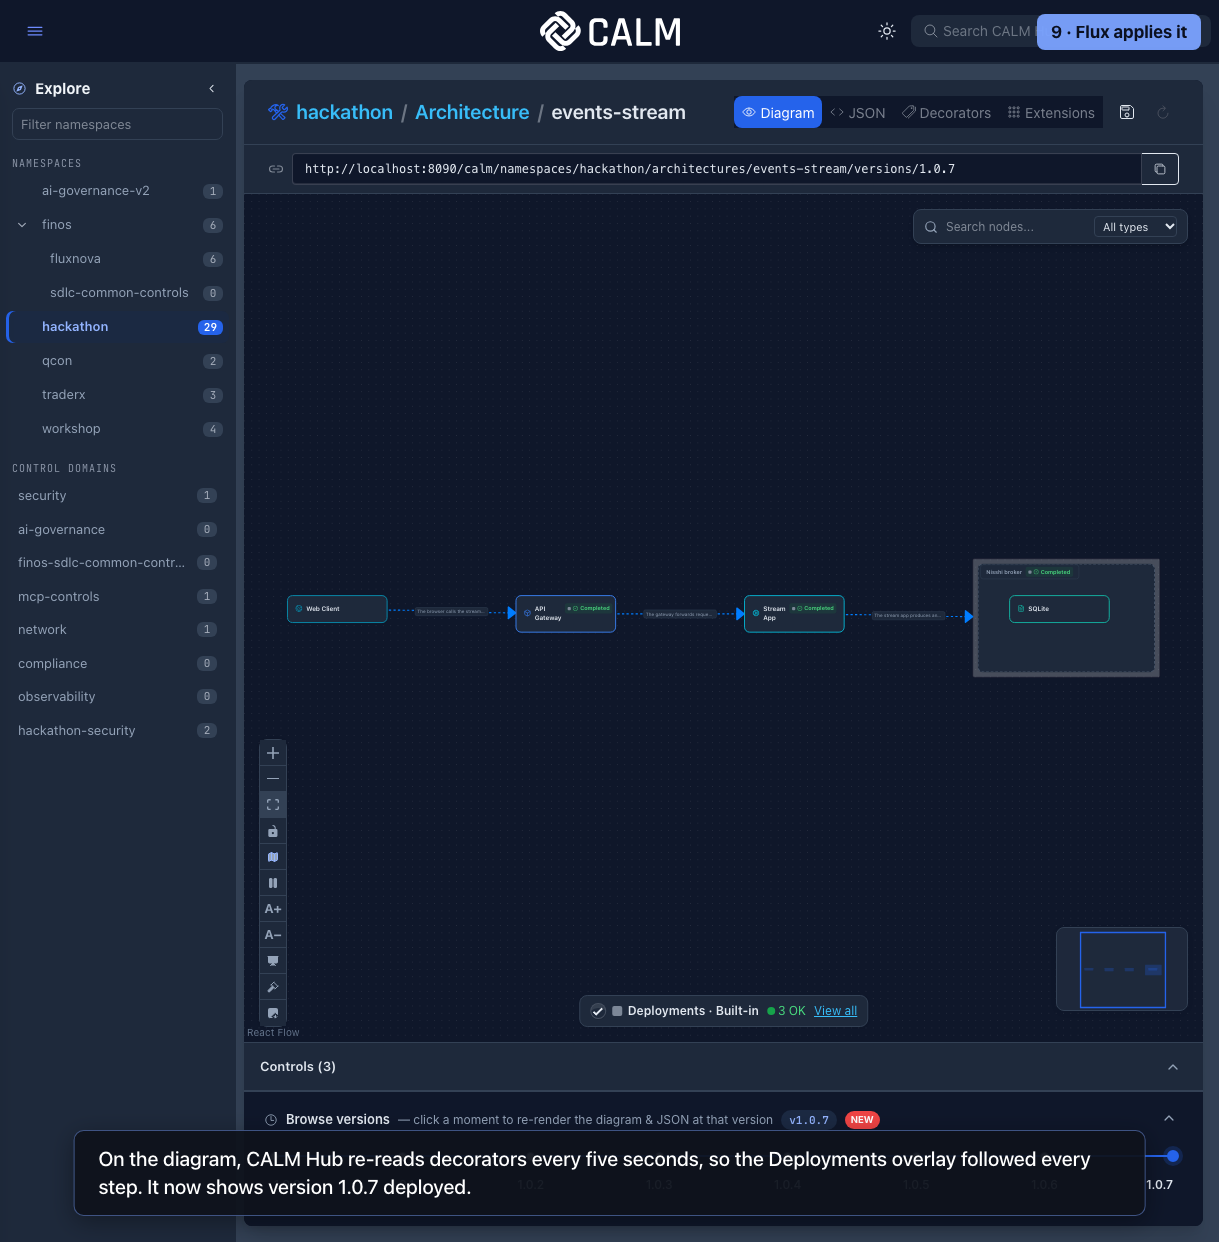
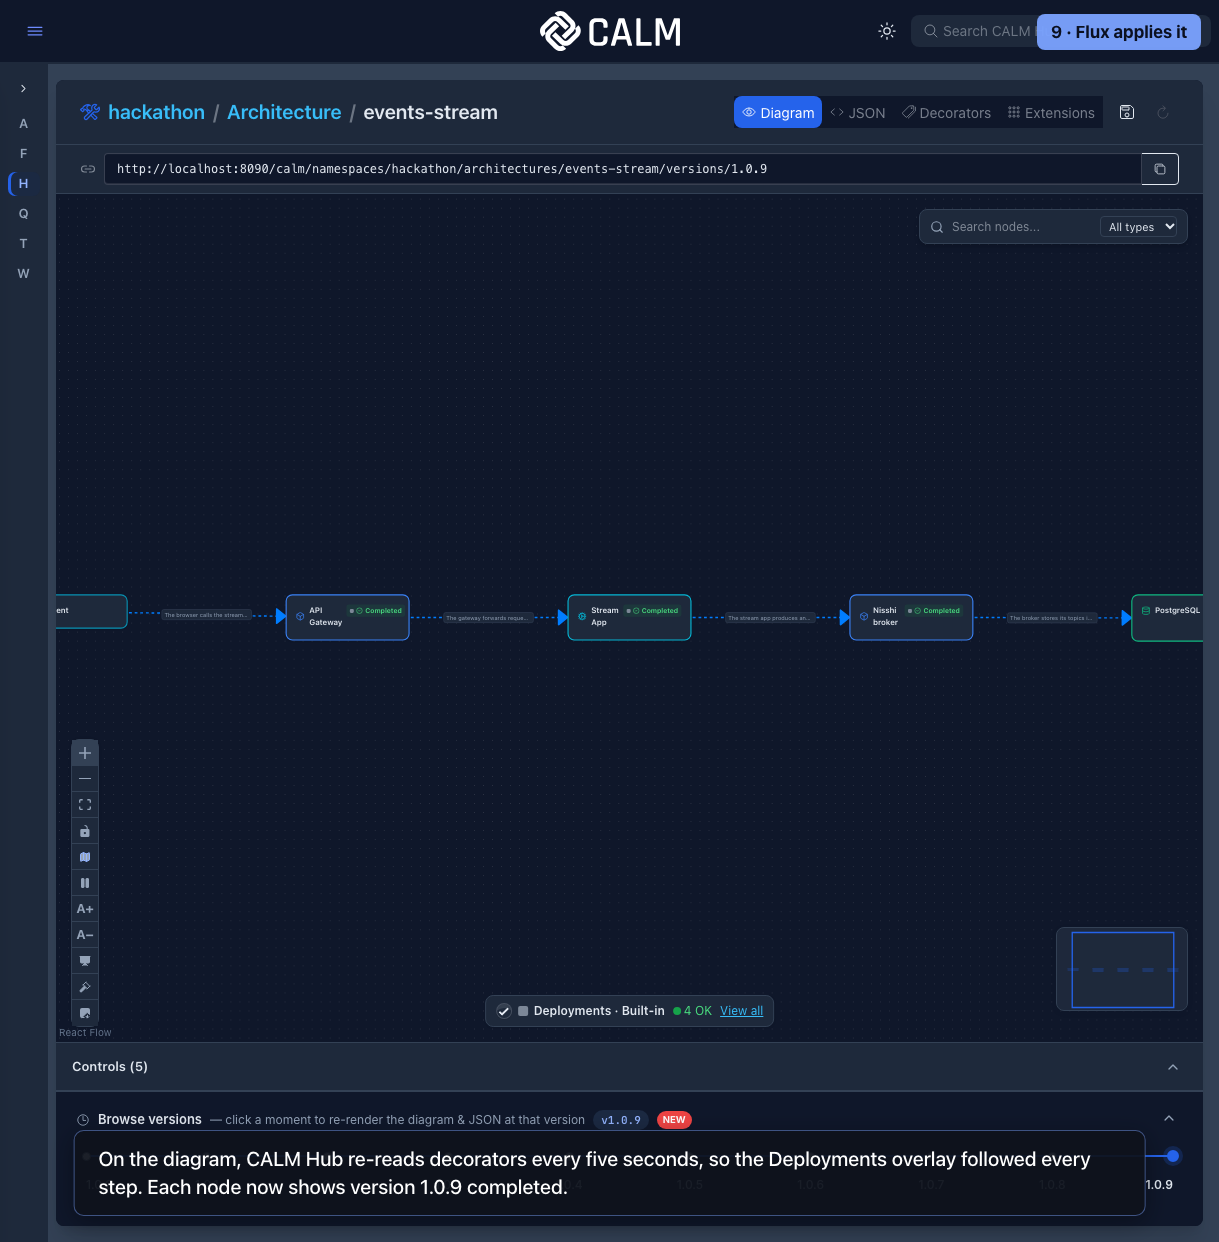
docs(hub-extension): the demo's CALM Hub pane follows the deployment
While the deployment runs, CALM Hub shows its record on the Decorators tab (re-read at each step), then the diagram
close enough to read each node's status; the pull request is shown in Gitea (conversation, files, commit, merged);
the sidebar stays collapsed after reloads. Narration and chapter times updated for the new take, voiced with the
presenter's ElevenLabs voice.

Claude-Session: https://claude.ai/code/session_0187vGcs6AUfHZD2JusozwLv

diff --git a/calm-hub-deploy-extension/docs/demo/README.md b/calm-hub-deploy-extension/docs/demo/README.md
@@ -1,6 +1,6 @@
 # Demo: plugging a deployment extension into CALM Hub
 
-A narrated walkthrough (12:58, 1920×1080, one take) with a terminal on the local cluster on the left and CALM Hub on
+A narrated walkthrough (12:35, 1920×1080, one take, in the presenter's cloned voice) with a terminal on the local cluster on the left and CALM Hub on
 the right. It starts with CALM Hub as it ships, with no extensions, and shows how an integration plugs in: the
 manifest, the configuration, the signed calls CALM Hub makes to the extension, and the results the extension writes
 back. Then it deploys a pattern decision from CALM Hub, through the firm's own pull request approval and Flux.
@@ -8,25 +8,25 @@ back. Then it deploys a pattern decision from CALM Hub, through the firm's own p
 The video is not kept in this repository. It is published separately (link to follow), with
 `calm-hub-deploy-demo.srt` as its captions. `record-hub-demo.cjs` writes both files.
 
-In this take, `events-stream` (a Nisshi event-streaming service from calm-backstage) runs 1.0.3 with its broker's
-topics in PostgreSQL. The take deploys 1.0.7, which moves them to SQLite, and then tries 1.0.8, which the pattern
-forbids.
+In this take, `events-stream` (a Nisshi event-streaming service from calm-backstage) runs 1.0.7 with its broker's
+topics in SQLite. The take deploys 1.0.9, which moves them back to PostgreSQL, and then tries 1.0.10, which the
+pattern forbids.
 
 | | Chapter | What it shows |
 |---|---|---|
 | 0:00 | CALM Hub on its own | No Extensions tab. The two built-in extensions are views for decorators, with no backend. Decorators already let tools record facts, but CALM Hub can't start anything. |
-| 1:08 | An extension is a manifest and a backend | The manifest's routes (method, path, scope), contributions (the Deployment tab and the action) and commands (schemas, which become CLI commands and MCP tools). |
-| 2:38 | Plugging it in | The CALM Hub configuration (manifest folder, backend URL, signing key). Starts the backend with manual approval and restarts CALM Hub. Covers the signed assertion on every call, the registry, the JWKS and the MCP tools. |
-| 4:12 | CALM Hub hooks in | The Extensions tab appears. The backend's log shows the call CALM Hub made, verified. The tab is blocks that CALM Hub draws. |
-| 5:11 | Where the service runs | The cluster's Deployments, and the status command through CALM Hub's proxy. |
-| 5:40 | An architect changes a pattern decision | A new version with the broker's storage changed. The tab warns that the cluster runs the old one. |
-| 6:27 | Asking CALM Hub to deploy | The confirm dialog: scope check, audit and signing. The deployment decorator goes pending, then validate, render and pull request, then it waits for approval. Ends with the trail in the backend's log. |
-| 7:47 | The firm's change gate | The pull request, the files it changes, and the commit message with who asked and CALM Hub's audit id. The approver merges it. |
-| 8:56 | Flux applies it | Flux applies the merge commit, and the PostgreSQL Deployment and its network policies go. The overlay follows the decorator. |
-| 9:33 | The results, back in CALM Hub | The decorator's fields, and the tab saying "deployed" with the history. CALM Hub's audit line has the same id. The integration runs both ways. |
-| 10:44 | The controls gate | A forbidden connection fails validation: no pull request is opened and the cluster is unchanged. |
-| 11:49 | The same extension, for an agent | The history command as an MCP tool, with the same checks and audit. |
-| 12:18 | The integration pattern | Recap. A firm with another deployment platform implements the same profile. |
+| 1:02 | An extension is a manifest and a backend | The manifest's routes (method, path, scope), contributions (the Deployment tab and the action) and commands (schemas, which become CLI commands and MCP tools). |
+| 2:27 | Plugging it in | The CALM Hub configuration (manifest folder, backend URL, signing key). Starts the backend with manual approval and restarts CALM Hub. Covers the signed assertion on every call, the registry, the JWKS and the MCP tools. |
+| 4:01 | CALM Hub hooks in | The Extensions tab appears. The backend's log shows the call CALM Hub made, verified. The tab is blocks that CALM Hub draws. |
+| 4:55 | Where the service runs | The cluster's Deployments, and the status command through CALM Hub's proxy. |
+| 5:22 | An architect changes a pattern decision | A new version with the broker's storage changed. The tab warns that the cluster runs the old one. |
+| 6:02 | Asking CALM Hub to deploy | The confirm dialog: scope check, audit and signing. The deployment record on the Decorators tab goes pending, then validate, render and pull request, then it waits for approval. Ends with the diagram marked in progress and the trail in the backend's log. |
+| 7:26 | The firm's change gate | The pull request in Gitea, the files it changes, and the commit message with who asked and CALM Hub's audit id. The approver merges it. |
+| 8:38 | Flux applies it | The record says Flux is applying the merge commit, the PostgreSQL Deployment and its network policies come back, and the record and the overlay end completed. |
+| 9:19 | The results, back in CALM Hub | The decorator's fields, and the tab saying "deployed" with the history. CALM Hub's audit line has the same id. The integration runs both ways. |
+| 10:25 | The controls gate | A forbidden connection fails validation: no pull request is opened and the cluster is unchanged. |
+| 11:30 | The same extension, for an agent | The history command as an MCP tool, with the same checks and audit. |
+| 11:58 | The integration pattern | Recap. A firm with another deployment platform implements the same profile. |
 
 ![CALM Hub before the extension: no Extensions tab](hub-before.png)
 

diff --git a/calm-hub-deploy-extension/README.md b/calm-hub-deploy-extension/README.md
@@ -12,7 +12,7 @@ service card already reads the deployments this extension records.
 
 ![The Deployment tab in CALM Hub](docs/demo/deployment-tab.png)
 
-▶ The demo (12:58, narrated; video link to follow) has a terminal on the cluster and CALM Hub side by side. It
+▶ The demo (12:35, narrated; video link to follow) has a terminal on the cluster and CALM Hub side by side. It
 starts with CALM Hub with no extensions and plugs this one in. Then it deploys a pattern decision from CALM Hub,
 through a pull request the firm approves and Flux, and shows the results written back to CALM Hub. It ends with
 the controls gate and MCP. Chapters and how to record it again: [docs/demo](docs/demo/README.md).
